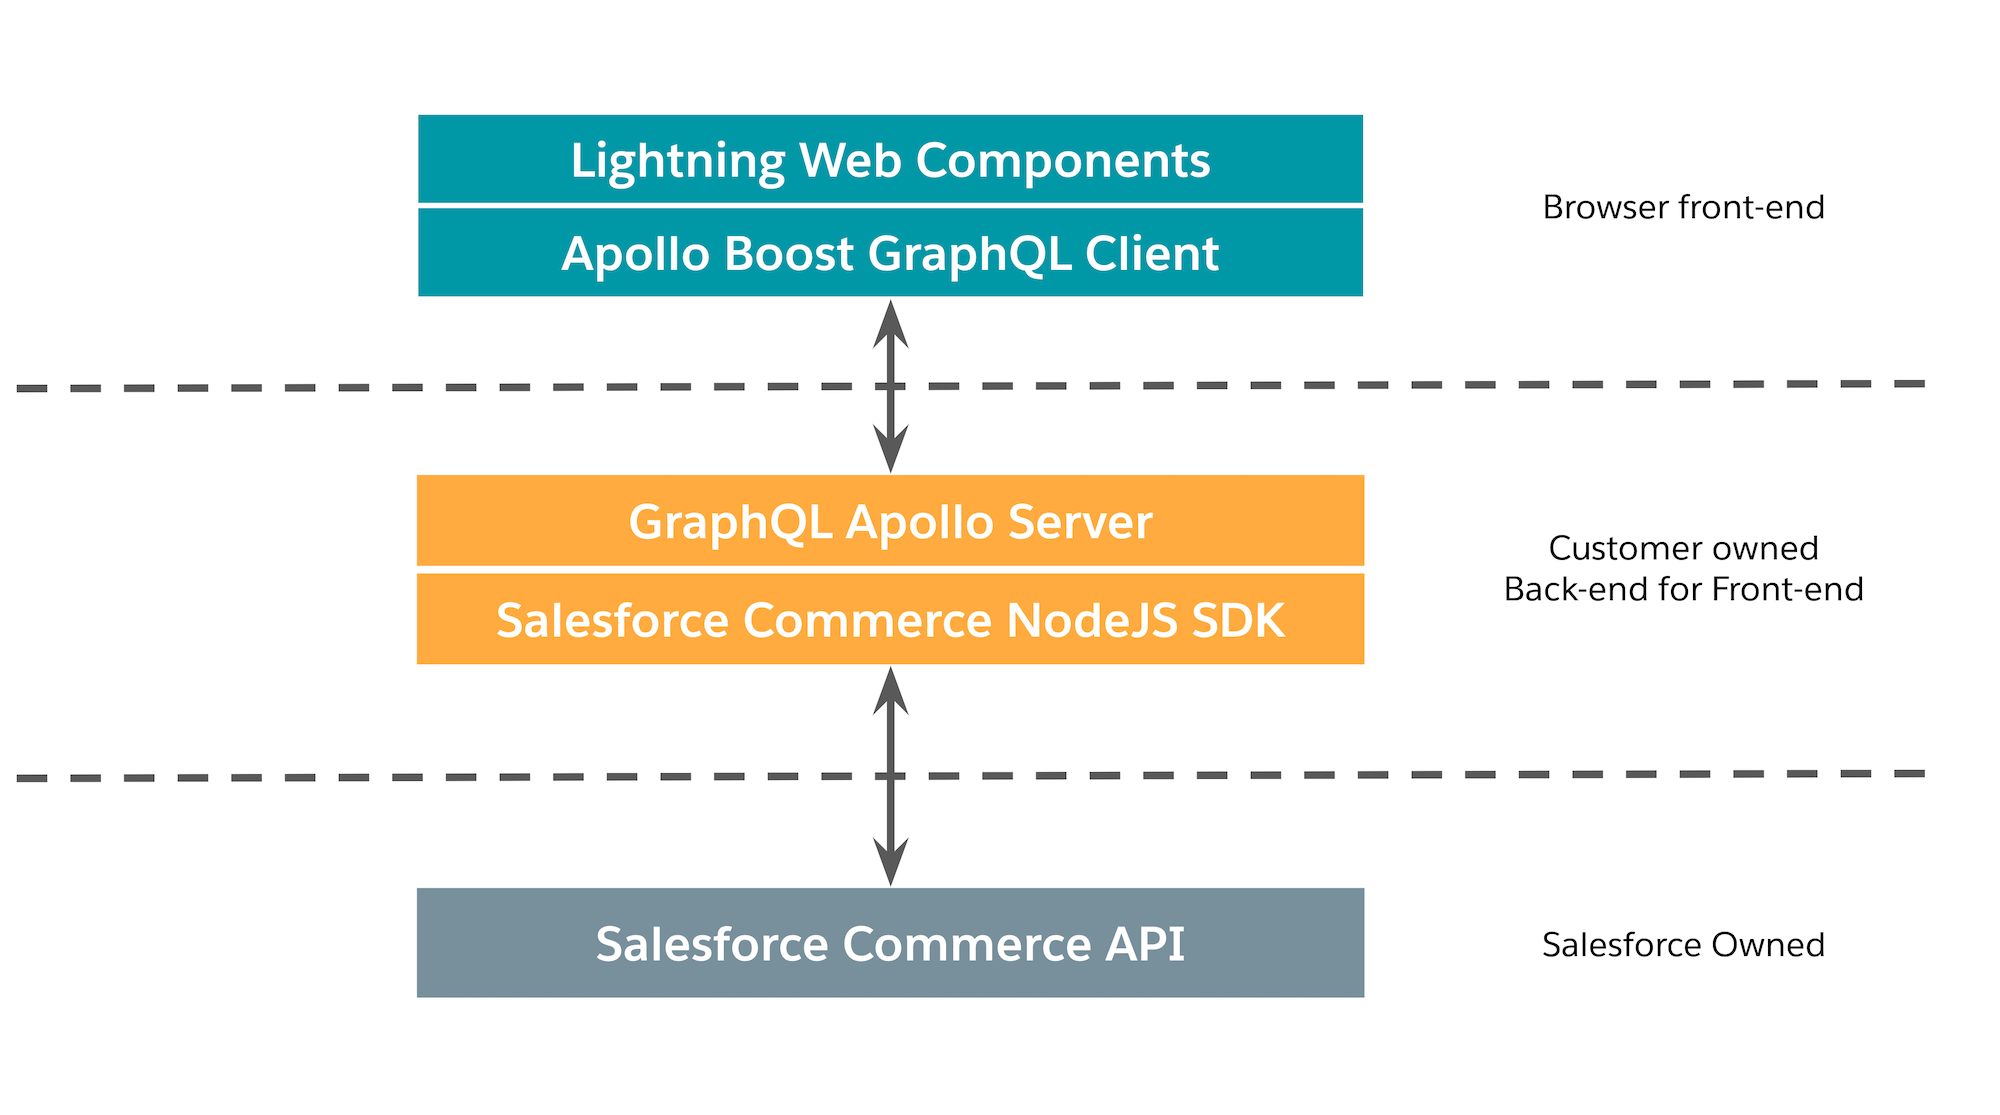
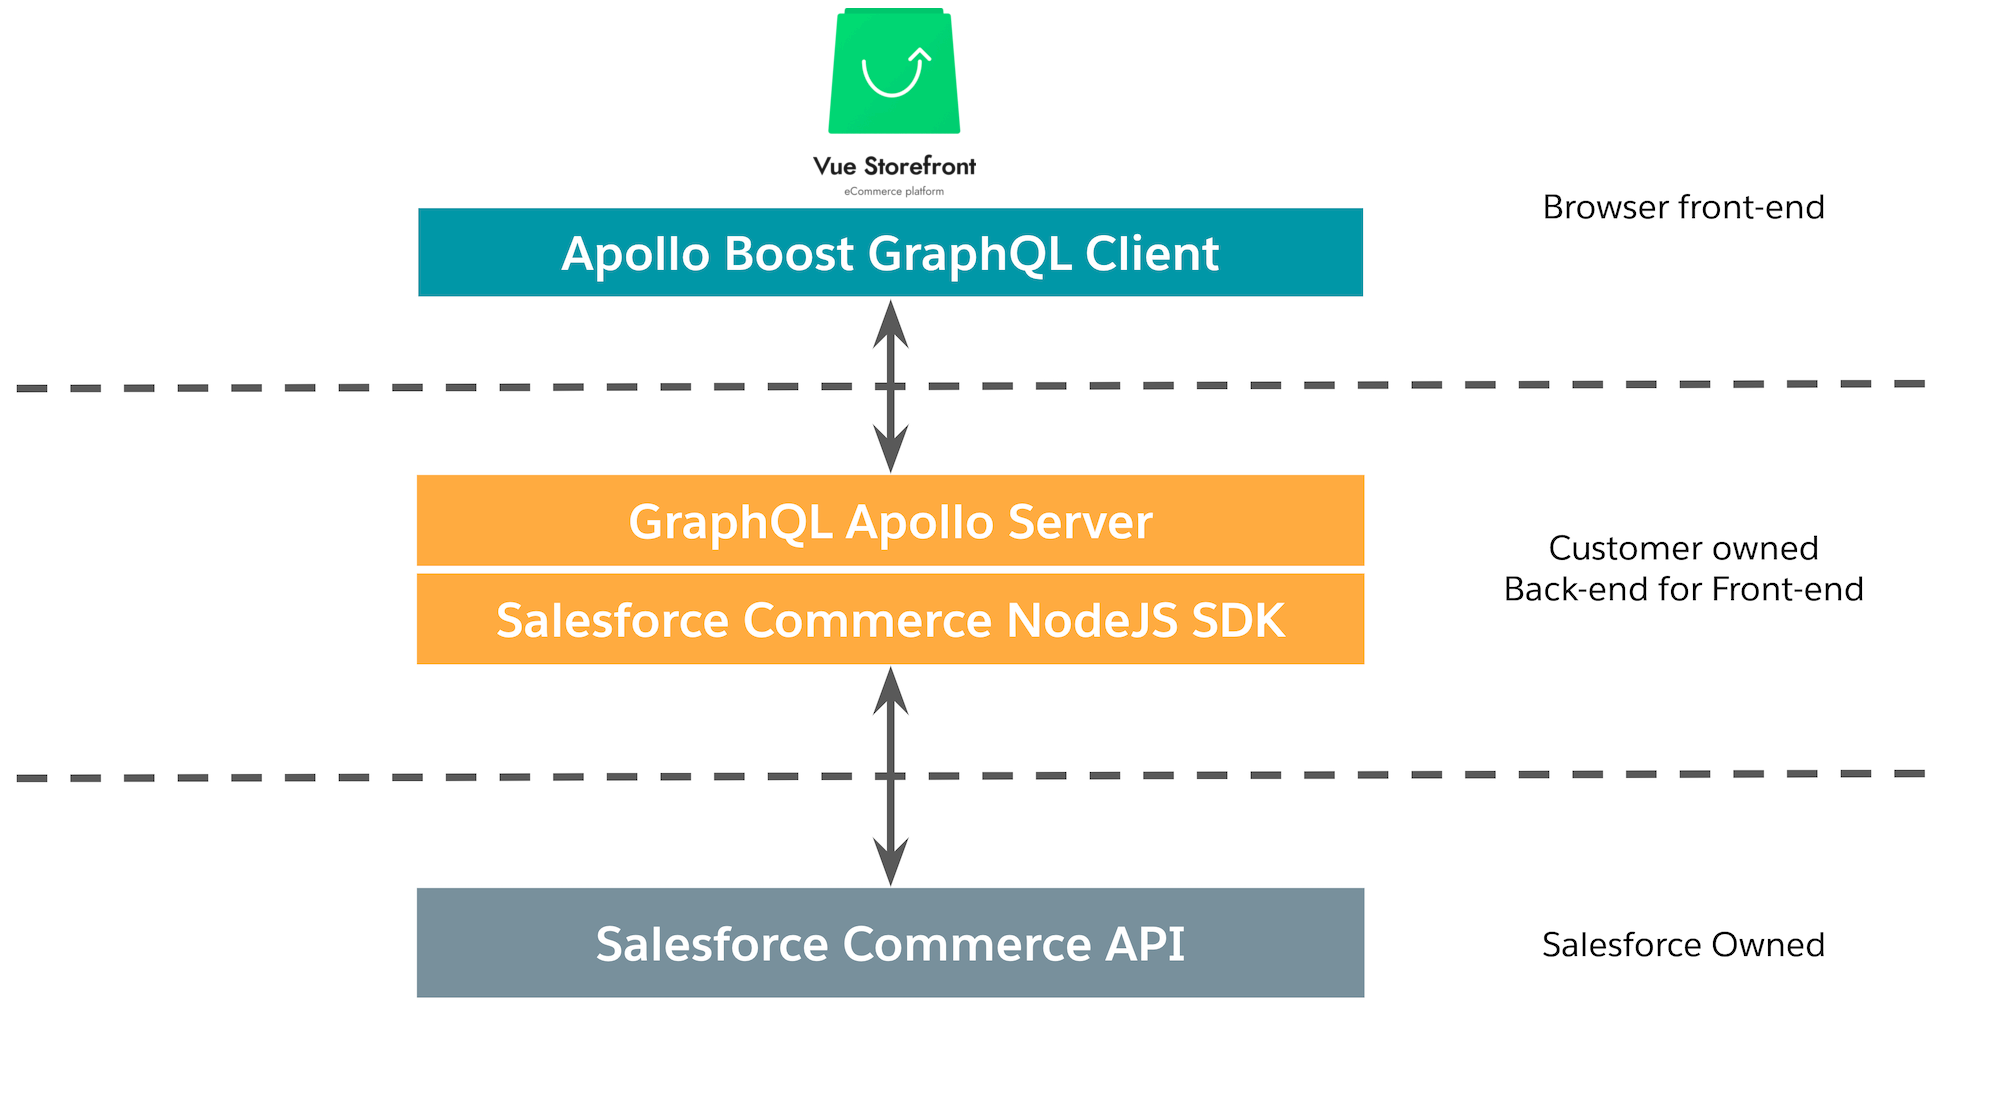
README improvements

Changed region(s): [[0.186, 0.0, 0.682, 0.183]]

diff --git a/docs/architecture.md b/docs/architecture.md
@@ -1,13 +1,13 @@
 # Architectural Overview
 
-The sample app showcases the capabilities and best practices of building an ecommerce application on top of the Salesforce Commerce API (a headless RESTful API). _It's not a complete reference architecture._ The sample app consists of a NodeJS web server that acts as a back-end for front-end (BFF) to a storefront built with Lightning Web Components.
+The sample app showcases the capabilities and best practices of building an ecommerce application on top of the Salesforce Commerce API (a headless RESTful API). _It's not a complete reference architecture._ The app consists of a NodeJS web server that acts as a back-end for front-end (BFF) to a storefront - for example the [Vue Storefront Next](https://github.com/DivanteLtd/vue-storefront/pull/4814)
 
 ## Tech Stack
 
 ![Sample app tech stack](architecture.png)
 
-#### Lightning Web Components
-The application front-end is built with [Lightning Web Components](https://lwc.dev/) (LWC). LWC is a Salesforce framework for building user experiences in modern JavaScript and native web components. It uses the latest web standards and it allows you to build components once and reuse them with other frameworks.
+#### Vue Storefront Next
+This bridge contains the GraphQL bridge only. It's very easy to extend it. If you need the frontend application to consume the endpoints and data exposed by this Bridge application please check the [Vue Storefront Next](https://github.com/DivanteLtd/vue-storefront/pull/4814) or the original [sfcc-sample-apps](https://github.com/SalesforceCommerceCloud/sfcc-sample-apps/) frontend based on LWC.
 
 #### GraphQL and Apollo
 The front-end client communicates with the BFF via GraphQL. GraphQL provides validation, type checking, and minimizes the data transfer between the BFF and client. The sample app comes with the interactive API explorer [GraphiQL](https://github.com/graphql/graphiql). Access GraphiQL by booting the sample app and navigating to http://localhost:3000/api. The sample app relies on [Apollo](https://www.apollographql.com/) for both the client and server side implementation of GraphQL. Apollo is an industry-standard technology for GraphQL.
@@ -27,9 +27,6 @@ Core modules for the BFF, including a service and extension registry and a loggi
 #### @sfcc-bff
 Data source implementation for the Salesforce Commerce API. It includes the GraphQL models and query and mutation resolvers. If you were to add a new data source to another API, another package grouping similar to `@sfcc-bff` should be created. Do not mix data sources within the same package of GraphQL models and resolvers.
 
-#### storefront-lwc
-Front-end application, built with [lwc-services](https://www.npmjs.com/package/lwc-services).
-
 ## Session Management
 
 To learn about session management in the sample app please see [session management](sessionManagement.md) 
@@ -37,7 +34,7 @@ To learn about session management in the sample app please see [session manageme
 ## Customizing and Extending
 When customizing or extending the sample app, do not modify the packages within `@sfcc-bff` and `@sfcc-core`. These packages will be published and consumed via NPM. Instead, create a new custom package within the monorepo that registers itself with `@sfcc-core` and provides access to data from a third-party service. For more information, see [Component Extension](componentExtension.md).
 
-![Sample App Project Layout](project-layout.png)
+![Project Layout](project-layout.png)
 
 The core-graphql module within `@sfcc-core` is responsible for getting all the registered API modules, looping over them, aggregating the schemas and resolvers, and then starting the Apollo Server with which the Apollo Client will communicate. To create a new BFF API module, we have to register it with core, create the schema and resolvers needed, and expose them to the core-graphql module for aggregation through factory functions in the core-graphql module. 
 
@@ -46,5 +43,4 @@ This is a sample application, and is not intended to be a full reference archite
 
 1. **Authentication** - Required for a fully functional basket and checkout experience.
 2. **CMS Integration** - Required to customize the storefront experience per user.
-3. **Server-side Rendering** - Required for product listing search engine optimization.
-4. **Component Portability** - Work needs to be done to re-use components outside of the sample app context.
+

diff --git a/README.md b/README.md
@@ -2,11 +2,21 @@
 
 This is a GraphQL bridge over the SFCC Shopper API. It's a part of [Vue Storefront Next SFCC integration](https://github.com/pkarw/vue-storefront/tree/next/packages/salesforce-cc-poc).
 
-This project is based on [SFCC Sample Apps](https://github.com/SalesforceCommerceCloud/sfcc-sample-apps/). We actually removed the original frontend sample application and just kept the GraphQL API.
+Implementing the headless Salesforce Commerce Cloud application you need a gateway over SFCC API. It might be provided via [Mulesoft](https://www.mulesoft.com/) gateway or ... actually by this **GraphQL Bridge**. **It's a great starting point for adding your own data endpoints**.
 
-The application back end is built on the new Salesforce Commerce API (a RESTful headless API). In between, it uses GraphQL and the Salesforce Commerce Node.js SDK.  Read more about the sample application [architecture](docs/architecture.md).
+The application back end is built on the new Salesforce Commerce API (a RESTful headless API). It uses GraphQL and the Salesforce Commerce Node.js SDK.  Read more about the  application [architecture](docs/architecture.md).
 
-Have more questions? See the [Sample Application FAQ](https://developer.commercecloud.com/s/article/CommerceAPI-Sample-Application-FAQ).
+![productSearch endpoint example](docs/productSearch.png)
+
+![product endpoint example](docs/product.png)
+
+## The project history
+
+This project is based on [SFCC Sample Apps](https://github.com/SalesforceCommerceCloud/sfcc-sample-apps/). We removed the original frontend sample application and just kept the GraphQL API. 
+
+We took the original sample application and extended it by adding:
+- category listing,
+- additional product details,
 
 ## Prerequisites
 1. Download and install [Node.js v12](https://nodejs.org/en/download/).
@@ -15,9 +25,9 @@ Have more questions? See the [Sample Application FAQ](https://developer.commerce
 
 ## Setup
 
-To set up the sample application:
+To set up the application:
 
-1. Clone the sfcc-sample-apps repository:
+1. Clone the `salesforce-cc-graphql-bridge` repository:
 `git clone https://github.com/DivanteLtd/salesforce-cc-graphql-bridge.git`
 
 2. Change into the `salesforce-cc-graphql-bridge` folder:
@@ -49,10 +59,7 @@ Note: You can obtain these values from your Account Executive (AE) or Customer S
 `yarn start:dev` (development mode) or
 `yarn start` (production mode)
 
-8. To access the application, open the browser to http://localhost:3001
-
-You can optionally test the sample application:
-`yarn test`
+8. To access the GraphQL Playground, open the browser to http://localhost:3001/api
 
 ## Debug
 
@@ -74,24 +81,10 @@ We recommend Visual Studio Code inbuilt debugger to troubleshoot the code. The `
 * [Sass](https://sass-lang.com/guide)
 * [GraphQL](https://graphql.org/learn/)
 * [Apollo](https://www.apollographql.com/docs/tutorial/introduction/)
-* [Lightning Web Components](https://lwc.dev/)
 * [Jest](https://jestjs.io/docs/en/getting-started)
 * [Visual Studio Code](https://code.visualstudio.com/docs)
-
-## Library of Components
-The sample app currently includes the following components:
-* [Home Page](https://github.com/SalesforceCommerceCloud/sfcc-sample-apps/tree/master/packages/storefront-lwc/src/modules/commerce/home)
-* [Product Detail](https://github.com/SalesforceCommerceCloud/sfcc-sample-apps/tree/master/packages/storefront-lwc/src/modules/commerce/productDetail)
-* [Product Search Results](https://github.com/SalesforceCommerceCloud/sfcc-sample-apps/tree/master/packages/storefront-lwc/src/modules/commerce/productSearchResults)
-* [Basket](https://github.com/SalesforceCommerceCloud/sfcc-sample-apps/tree/master/packages/storefront-lwc/src/modules/commerce/basket)
 
 
 ## Contributing
 
-Note: As of 06/30/20, the integration branch has been removed from the sfcc-sample-apps repository. We recommend that you delete your local integration branch, if you have one.
-
 * See [Contributing](CONTRIBUTING.md)
-
-<!-- Markdown link & img dfn's -->
-[circleci-image]: https://circleci.com/gh/SalesforceCommerceCloud/sfcc-sample-apps.svg?style=shield&circle-token=f34a55a59d7dfc30402e719996edf10092780b66
-[circleci-url]: https://circleci.com/gh/SalesforceCommerceCloud/sfcc-sample-apps

diff --git a/CONTRIBUTING.md b/CONTRIBUTING.md
@@ -6,18 +6,16 @@
 
 - [What to Expect](#What-to-Expect)
 
-- [Team Members](#sfcc-sample-apps-Team-Members)
-
 - [Back to README](./README.md)
 
-# Contributing to sfcc-sample-apps
+# Contributing to salesforce-cc-graphql-bridge
 
-To contribute to sfcc-sample-apps, follow the guidelines below. This helps us address your pull request in a more timely manner. 
+To contribute to `salesforce-cc-graphql-bridge`, follow the guidelines below. This helps us address your pull request in a more timely manner. 
 
 ## Submitting Your First Pull Request
 If this is your first pull request:
 
-  1. Create a fork of the sfcc-sample-apps repository 
+  1. Create a fork of the `salesforce-cc-graphql-bridge` repository 
 
   2. Download the forked repository
 
@@ -44,7 +42,7 @@ If this is your first pull request:
    
        * Error logs
    
-  3. Grant sfcc-sample-apps team members access to your fork so we can run an automated test on your pull request prior to merging it into our master branch.
+  3. Grant `salesforce-cc-graphql-bridge` team members access to your fork so we can run an automated test on your pull request prior to merging it into our master branch.
 
        * From within your forked repository, find the 'Settings' link (see the site navigation on left of the page).
    
@@ -58,8 +56,7 @@ If this is your first pull request:
 
        * Lint your code:  
          `yarn lint` 	 
-       * Run and pass the unit test:  
-         `yarn test`
+
   6. Monitor your pull requests.
        
        * Please respond in a timely manner to any comments or questions about your requested changes.
@@ -78,12 +75,6 @@ As long as your submission has met the above guidelines, we should merge it in a
 
 Our sprints run for about two weeks. In that period of time, we typically review all pull requests, give feedback, and merge the requests (depending on our current sprint priorities).
 
-## sfcc-sample-apps Team Members 
-
-To speed up the process of reviewing and merging your pull request, grant the following team members access to your fork:
-
-  * SFRA Admins 
-  
  
 ## Contributer License Agreement (CLA)
 

diff --git a/docs/sessionManagement.md b/docs/sessionManagement.md
@@ -75,7 +75,7 @@ passport.use(
 );
 ```
 
-In Sample App’s authentication configuration, the shopper token is retrieved from the Commerce SDK. From this token, the anonymous user customer ID is determined. If authentication is successful, a user is returned containing the id and the bearer token. Following successful authentication, the `getUserFromContext()` function calls `context.login()` -- which invokes `passport.serializeUser`:
+In sample authentication configuration, the shopper token is retrieved from the Commerce SDK. From this token, the anonymous user customer ID is determined. If authentication is successful, a user is returned containing the id and the bearer token. Following successful authentication, the `getUserFromContext()` function calls `context.login()` -- which invokes `passport.serializeUser`:
 
 ```typescript
 passport.serializeUser(function(user, done) {
